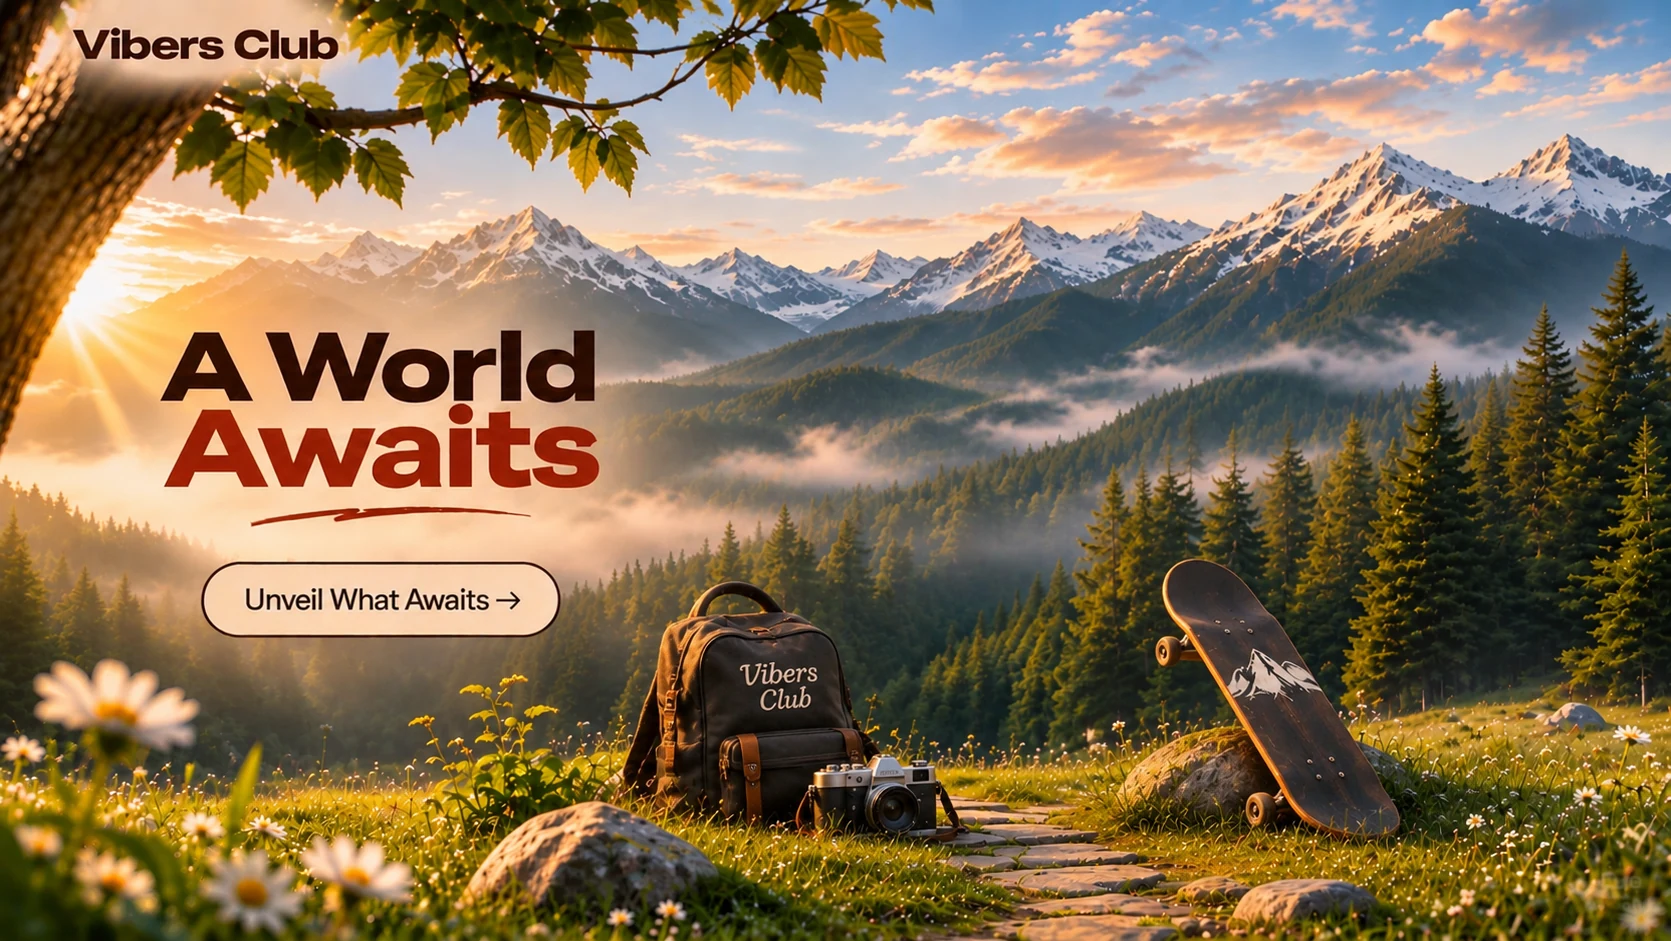
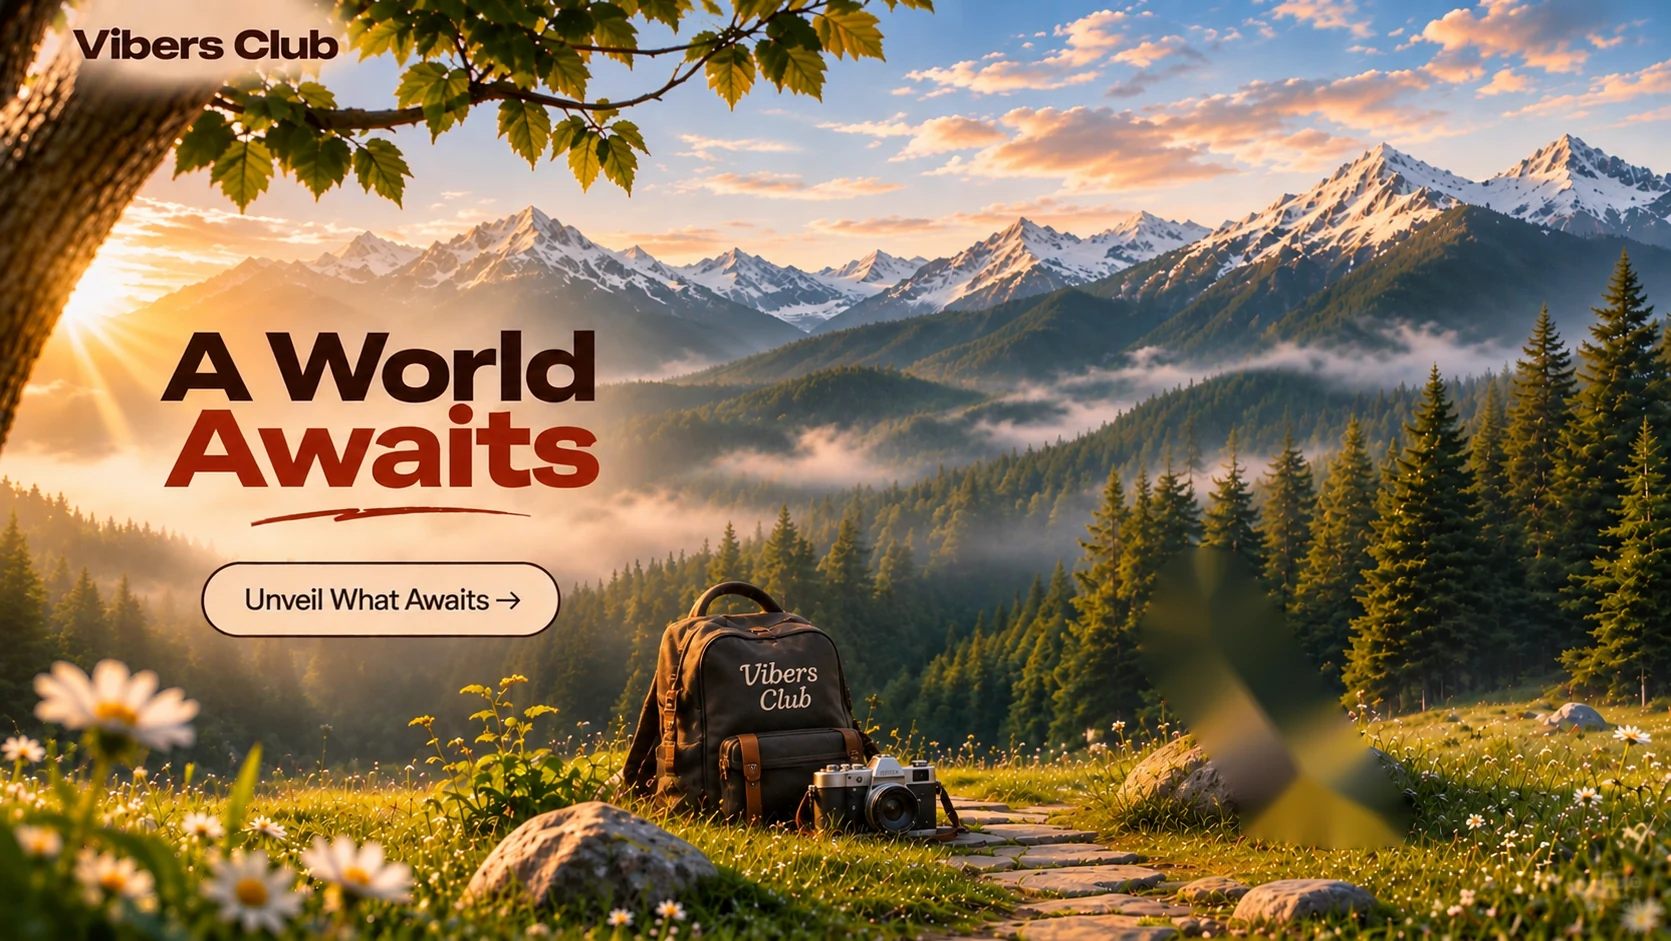
Entry demo: tall door in the meadow with the backpack, camera and skateboard in front, as in ARPIT's picture
Claude-Session: https://claude.ai/code/session_01EqQkYapVdeb76CjFPBEteX

Changed region(s): [[0.6846, 0.5855, 0.8402, 0.9245]]

diff --git a/apps/web/features/entry/scene.ts b/apps/web/features/entry/scene.ts
@@ -152,7 +152,16 @@ const SKY_FRAG = /* glsl */ `
 export type EntryBackdrop = "clouds" | "meadow";
 // the meadow picture is 1671 x 941; the door's foot stands here on the path, as fractions of it
 const MEADOW_PX = { w: 1671, h: 941 };
-const MEADOW_SPOT = { u: 1010 / 1671, v: 800 / 941 };
+const MEADOW_SPOT = { u: 990 / 1671, v: 808 / 941 };
+// in the meadow the camera stands closer, so the door is tall, as in ARPIT's picture of it
+const MEADOW_CAM_Z = 6.2;
+// ARPIT's backpack, camera and skateboard (cut-outs), laid over the same things in the meadow picture
+// and set just in front of the door, so the door stands behind them; boxes in meadow pixels
+const MEADOW_PROPS = [
+  { url: "/entry/prop-pack.webp", l: 650, t: 582, r: 882, b: 826 },
+  { url: "/entry/prop-board.webp", l: 1114, t: 528, r: 1422, b: 846 },
+  { url: "/entry/prop-camera.webp", l: 783, t: 762, r: 974, b: 842 },
+];
 const MEADOW_Z = -14; // the picture stands this far behind the door
 
 export async function createEntryScene(canvas: HTMLCanvasElement, params: EntryParams, backdrop: EntryBackdrop = "clouds") {
@@ -178,6 +187,7 @@ export async function createEntryScene(canvas: HTMLCanvasElement, params: EntryP
     picture("/intro/door-leaf.webp"),
     backdrop === "meadow" ? picture("/entry/meadow.webp") : Promise.resolve(null),
   ]);
+  const propTex = backdrop === "meadow" ? await Promise.all(MEADOW_PROPS.map((m) => picture(m.url))) : [];
   const meadow = backdrop === "meadow";
   // everything that makes the door: moved as one onto its spot in the picture (meadow), else at the origin
   const doorGroup = new THREE.Group();
@@ -255,6 +265,17 @@ export async function createEntryScene(canvas: HTMLCanvasElement, params: EntryP
   );
   frame.position.set((FRAME_PX.w / 2) * PX - OPEN_X, (FRAME_PX.open.b - FRAME_PX.h / 2) * PX, 0);
   frame.renderOrder = 5;
+  if (meadow) {
+    // the frame alone, without its island of grass: the door stands straight on the meadow path
+    const crop = { l: 683, r: 1112, t: 66, b: FRAME_PX.open.b + 6 };
+    const t = keep(frameTex.clone());
+    t.repeat.set((crop.r - crop.l) / FRAME_PX.w, (crop.b - crop.t) / FRAME_PX.h);
+    t.offset.set(crop.l / FRAME_PX.w, 1 - crop.b / FRAME_PX.h);
+    t.needsUpdate = true;
+    (frame.material as THREE.MeshBasicMaterial).map = t;
+    frame.geometry = keep(new THREE.PlaneGeometry((crop.r - crop.l) * PX, (crop.b - crop.t) * PX));
+    frame.position.set(((crop.l + crop.r) / 2) * PX - OPEN_X, (FRAME_PX.open.b - (crop.t + crop.b) / 2) * PX, 0);
+  }
   doorGroup.add(frame);
 
   // ---- the doorway itself: where the canvas turns transparent, showing the site underneath
@@ -343,7 +364,18 @@ export async function createEntryScene(canvas: HTMLCanvasElement, params: EntryP
     scene.add(meadowPlane);
   }
   // the camera stands back further on narrow screens, so the doorframe still fits
-  const startZFor = (aspect: number) => (aspect < 1 ? CAM.z * (1.25 / Math.max(0.45, aspect)) * 0.62 : CAM.z);
+  const camZ = meadow ? MEADOW_CAM_Z : CAM.z;
+  const startZFor = (aspect: number) => (aspect < 1 ? camZ * (1.25 / Math.max(0.45, aspect)) * 0.62 : camZ);
+  const PROP_Z = 0.5; // the props stand this far in front of the door
+  const props = propTex.map((t) => {
+    const m = new THREE.Mesh(
+      keep(new THREE.PlaneGeometry(1, 1)),
+      keep(new THREE.MeshBasicMaterial({ map: t, transparent: true, depthWrite: false, toneMapped: false })),
+    );
+    m.renderOrder = 18;
+    scene.add(m);
+    return m;
+  });
   const layoutMeadow = () => {
     if (!meadowPlane) return;
     const d0 = startZFor(camera.aspect); // camera to the door
@@ -362,6 +394,16 @@ export async function createEntryScene(canvas: HTMLCanvasElement, params: EntryP
     const sx = px + (MEADOW_SPOT.u - 0.5) * W;
     const sy = CAM.y + (0.5 - MEADOW_SPOT.v) * H;
     doorGroup.position.set((sx * d0) / D, CAM.y + ((sy - CAM.y) * d0) / D, 0);
+    // each prop: its box on the picture, brought forward to PROP_Z along the lines of sight
+    const f = (d0 - PROP_Z) / D;
+    MEADOW_PROPS.forEach((b, i) => {
+      const x0 = px + (b.l / MEADOW_PX.w - 0.5) * W;
+      const x1 = px + (b.r / MEADOW_PX.w - 0.5) * W;
+      const y0 = CAM.y + (0.5 - b.b / MEADOW_PX.h) * H;
+      const y1 = CAM.y + (0.5 - b.t / MEADOW_PX.h) * H;
+      props[i].scale.set((x1 - x0) * f, (y1 - y0) * f, 1);
+      props[i].position.set(((x0 + x1) / 2) * f, CAM.y + ((y0 + y1) / 2 - CAM.y) * f, PROP_Z);
+    });
   };
 
   // ---- sizing

diff --git a/docs/PROGRESS.md b/docs/PROGRESS.md
@@ -22,6 +22,7 @@ ARPIT sent their "A World Awaits" meadow picture: "this needs to be the backgrou
 - The "Tap the door" hint is hidden; the picture carries its own invitation. A tap anywhere still opens the door.
 - `createEntryScene(canvas, params, backdrop)`, `<EntryDoor backdrop="meadow">`.
 - ARPIT: no "VIBERS / CLUB · MANALI" sign over the door in the meadow (removed there; the clouds version keeps it).
+- Set up like ARPIT's picture of it: the camera stands closer so the door is tall (the frame alone, without its grass island), with the backpack and camera at its left foot and the skateboard leaning on the right. These are ARPIT's cut-outs (`public/entry/prop-*.webp`), laid over the same things in the meadow and set just in front of the door. The meadow's own skateboard is painted out of `meadow.webp`, since the cut-out leans at a slightly different angle.
 
 Tests: lint and typecheck clean; e2e entry (clouds at `/`) and the `/entry-demo` check passed on phone and desktop.
 
